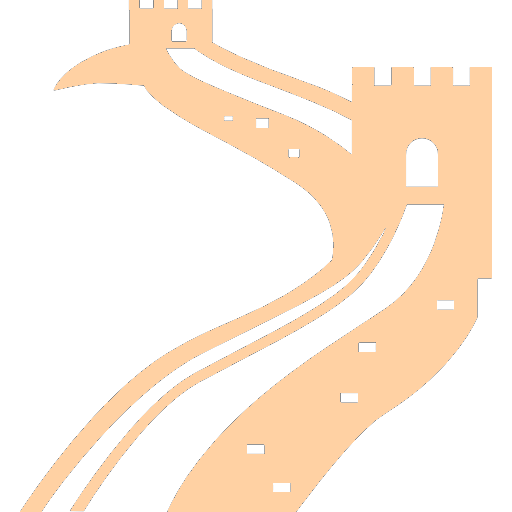
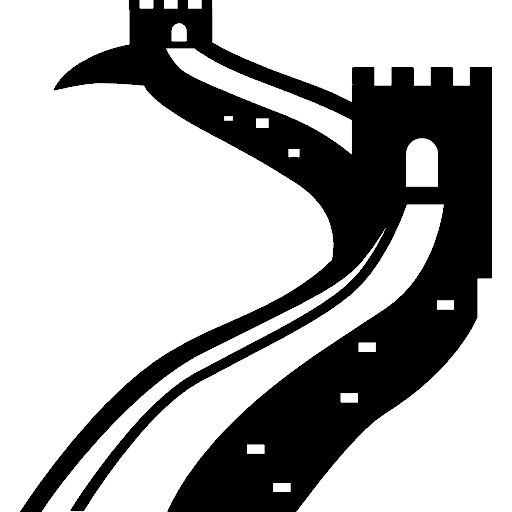
Updated READ.md, Balanced walls, added achievement

diff --git a/app/app.js b/app/app.js
@@ -11,6 +11,7 @@ window.addEventListener('load', function () {
   var count;
   var hairCount, chinaCount, wallCount, remarkCount, jokeCount, perCount;
   var hairPer, chinaPer, wallPer, remarkPer, jokePer;
+  var hairBought;
   hairPer = chinaPer = wallPer = remarkPer = jokePer = perCount = 0.00;
 
   var account;
@@ -38,7 +39,8 @@ window.addEventListener('load', function () {
          chinaPer: 0,
          wallPer: 0,
          remarkPer: 0,
-         jokePer: 0
+         jokePer: 0,
+         hairBought: 0
        });
        alert("Your game can now be accessed with name: " + account);
      }
@@ -84,8 +86,13 @@ window.addEventListener('load', function () {
       jokeCount = data.val();
           updateHTML();
     });
+
     fb.child("jokePer").on("value", function(data){
       jokePer = data.val();
+    });
+
+    fb.child("hairBought").on("value", function(data){
+      hairBought = data.val();
     });
 
 
@@ -105,11 +112,15 @@ window.addEventListener('load', function () {
     if(count >= hairCount){
       count -= hairCount;
       hairCount += Math.ceil(hairCount / 6);
-      console.log(hairPer);
+      hairBought++;
       if(hairPer == 0.00){
         hairPer = .1;
       } else {
         hairPer += hairPer *.2;
+      }
+      if(hairBought == 10){
+        alert("Achievement Unlocked: " + "Barber Shop Extroidinair");
+        hairPer *= 10;
       }
       updateHTML();
       update();
@@ -141,7 +152,11 @@ window.addEventListener('load', function () {
       if(wallPer == 0.00){
         wallPer = 30;
       } else {
-        wallPer += wallPer *2;
+        if(wallPer > 400){
+          wallPer += wallPer * .5;
+        } else {
+          wallPer += wallPer *2;
+        }
       }
       updateHTML();
       update();
@@ -241,7 +256,8 @@ window.addEventListener('load', function () {
       wallPer: wallPer,
       remarkPer: remarkPer,
       jokePer: jokePer,
-      per: perCount
+      per: perCount,
+      hairBought: hairBought
     });
   };
 

diff --git a/README.md b/README.md
@@ -4,7 +4,7 @@
 
 
 
-<img width="550" src="http://i.imgur.com/6aki639.png"/>
+<img width="550" src="http://i.imgur.com/t8YOw5z.png"/>
 
 
 
